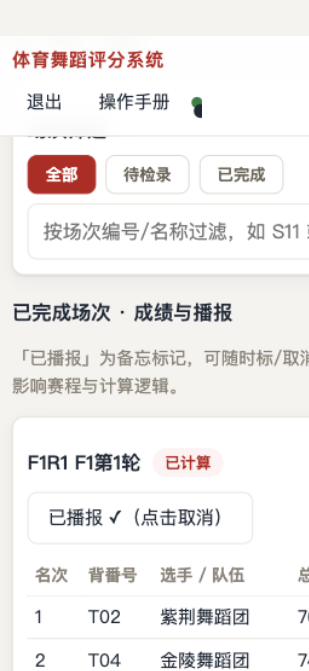
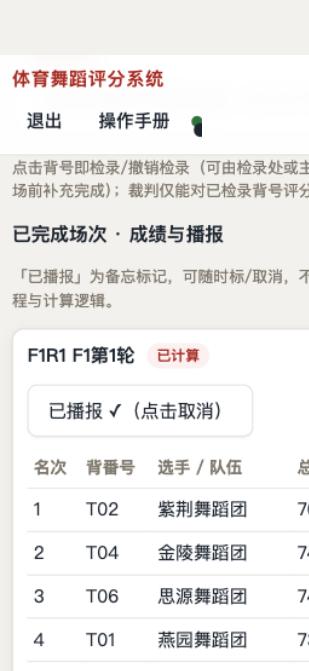
R36手册同步：检录员登录页截图(用户名+检录口令字段序)/主持人公告实拍替换大屏图/登录字段顺序修正(用户名在前)/手册v2.2

diff --git a/server/templates/manual.html b/server/templates/manual.html
@@ -100,6 +100,7 @@
 </div>
 <div class="step"><h3>第 1 步 · 登录检录台</h3>
   <p>登录页角色选「检录长/检录员」，输入管理员分发的用户名和口令。手机、平板即可操作。</p>
+  <img src="/static/manual/r21/st-login-marshal.png" alt="检录员登录页" loading="lazy">
 </div>
 <div class="step"><h3>第 2 步 · 逐个背号确认到场</h3>
   <p>本场场次卡上选手以背号芯片排列：<b>点一下变绿 = 检录完成</b>；点错再点一下取消。
@@ -167,7 +168,7 @@
   <img src="/static/manual/r21/s-screen-results.png" alt="大屏成绩公告" loading="lazy">
 </div>
 
-<p class="muted" style="margin-top:2rem">动线指南 v2.1 · 2026-09-08 · 面向使用者 · 截图均为最新版实机图 ·
+<p class="muted" style="margin-top:2rem">动线指南 v2.2 · 2026-09-08 · 面向使用者 · 截图均为最新版实机图 ·
 系统实现细节见 docs/DESIGN.md，验收口径见 docs/E2E-STANDARD.md。</p>
 {% endblock %}
 {% block scripts %}

diff --git a/server/templates/login.html b/server/templates/login.html
@@ -10,8 +10,8 @@
     <option value="host">主持人</option>
     <option value="marshal">检录长 / 检录员</option>
   </select>
-  <div id="pw-box"><label id="pw-label">口令</label><input type="password" id="password"></div>
   <div id="user-box" style="display:none"><label>用户名</label><input id="username" placeholder="由管理员分发"></div>
+  <div id="pw-box"><label id="pw-label">口令</label><input type="password" id="password"></div>
   <div id="judge-box" style="display:none"><label>裁判 ID</label><input id="judge_id" placeholder="如 J1"></div>
   <p><button class="btn" id="btn">登录</button> <span id="msg" class="err"></span></p>
   <p class="muted">观众无需登录：查看 <a href="/public/schedule">赛程</a> · <a href="/public/results">成绩</a> · <a href="/screen">大屏</a></p>
